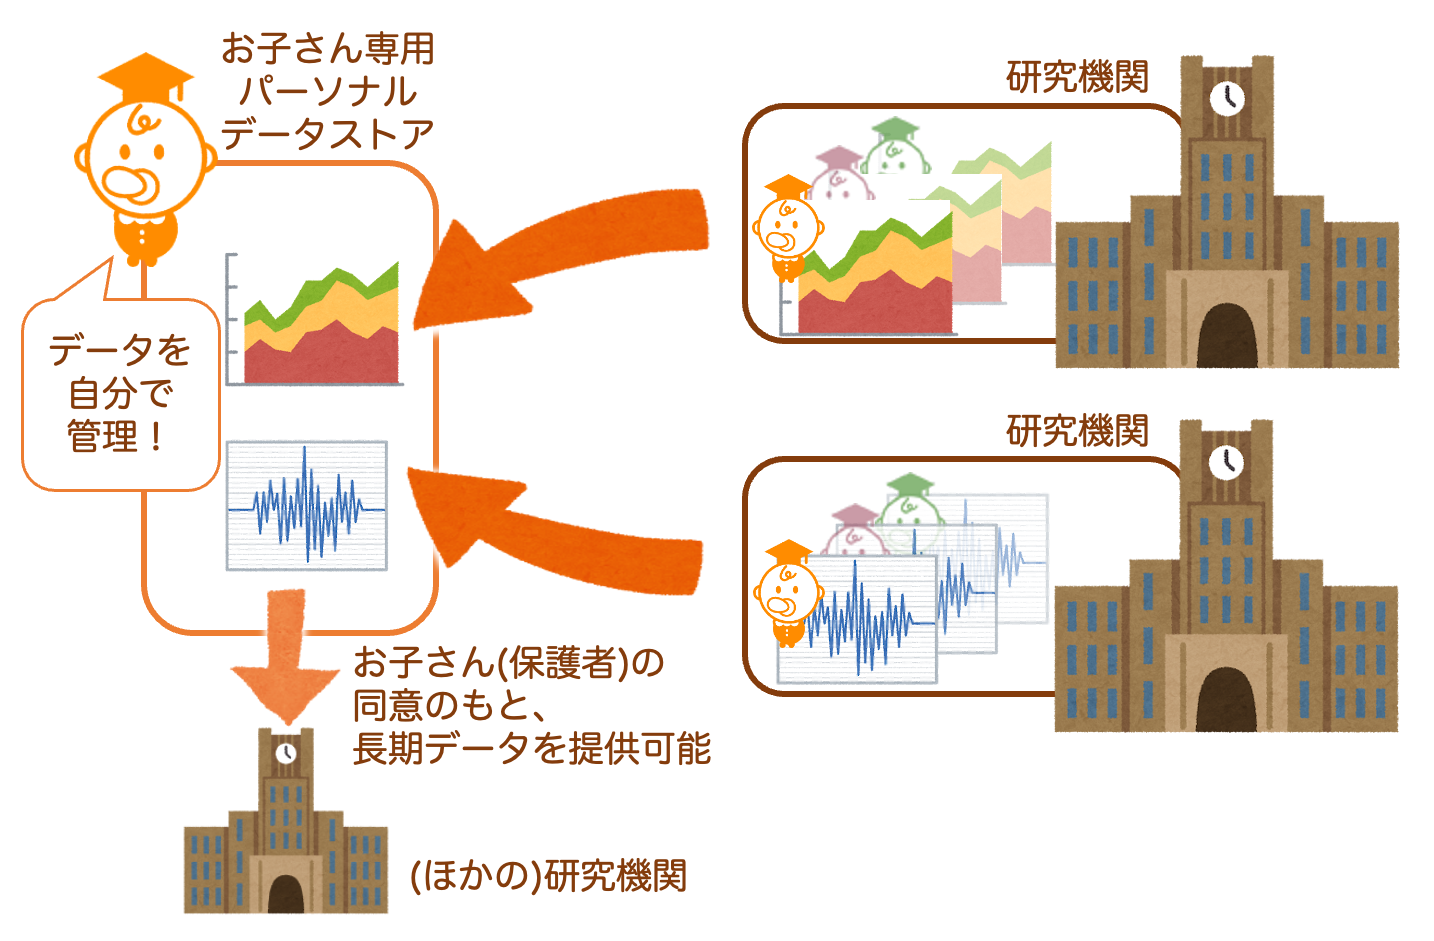
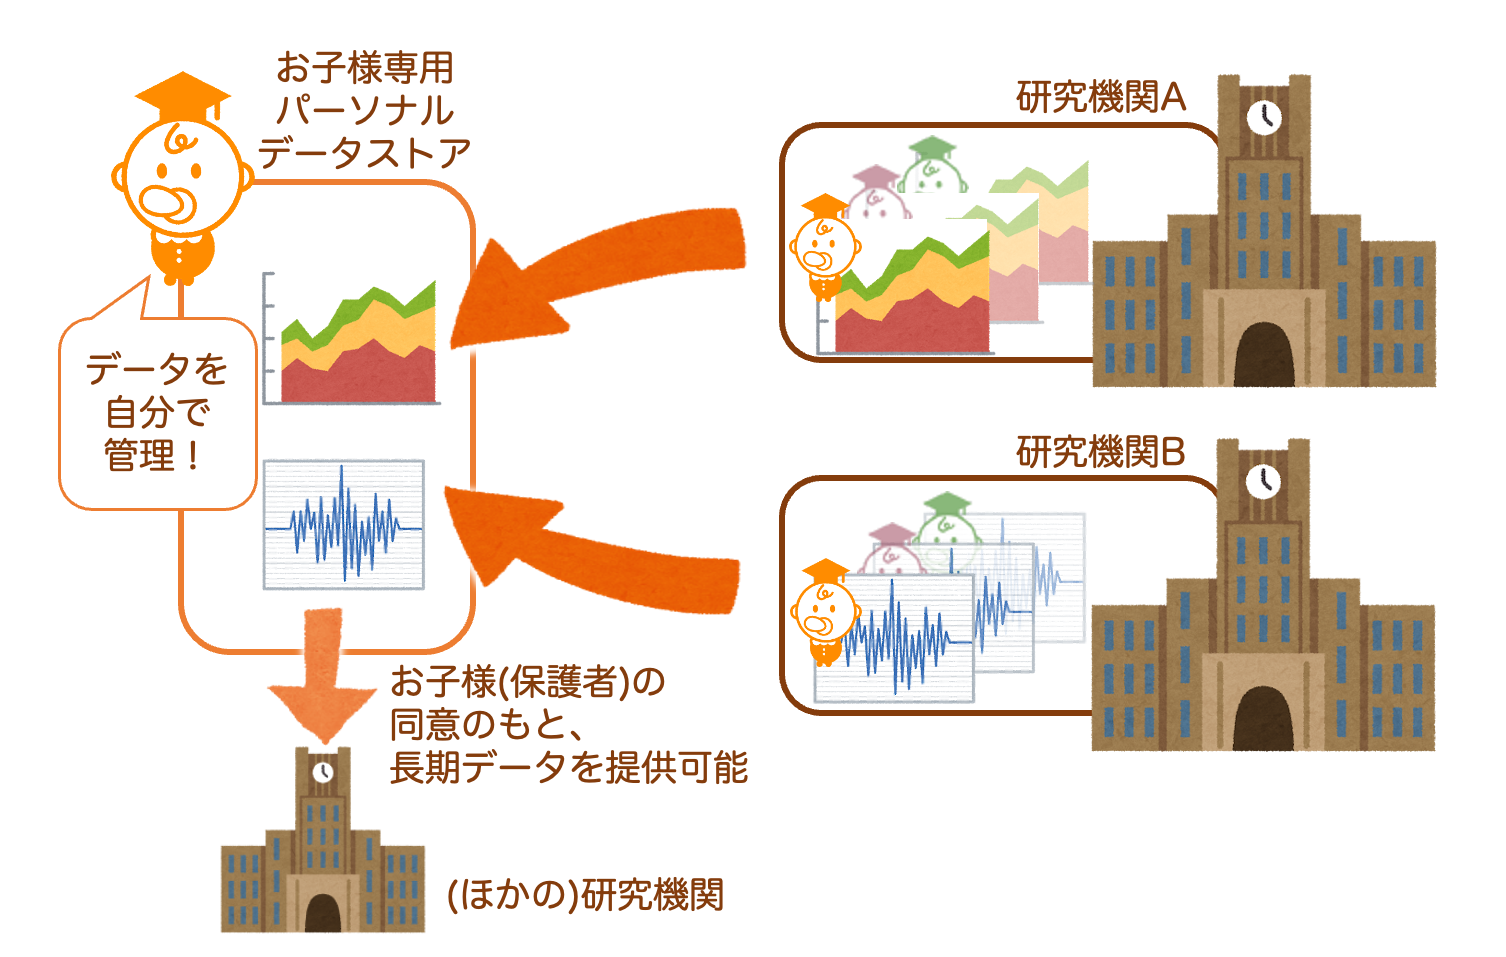
Fix descriptions

Changed region(s): [[0.0307, 0.0308, 0.9819, 0.9862], [0.3989, 0.6164, 0.4909, 0.6472]]

diff --git a/join-person.md b/join-person.md
@@ -32,7 +32,7 @@ items:
 
 ## 1）データの取り扱い方法
 
-これまでの調査では、お子様がある研究機関の実験に参加したときに、得られたデータは各研究機関で厳重に管理され、研究機関同士で互いに共有されることはありませんでした。「参加者の同意なしに実験データを二次利用しない」ことは非常に重要なことではありますが、「参加者が同意した上で、自身の実験データの二次利用を許可する」ためのよい方法がないのが現状でした。
+これまでの調査では、お子様がある研究機関の実験に参加したときに、得られたデータは各研究機関で厳重に管理され、研究機関同士で互いに共有されることはありませんでした。「参加者の同意なしに実験データを二次利用しない」ことは非常に重要なことではありますが、「参加者の同意を得たうえで、自身の実験データの二次利用を許可する」ためのよい方法がないのが現状でした。
 
 そこで赤ちゃんラボ5.0では、「パーソナルデータストア」という技術を使い、お子様がある研究機関の調査に参加されたときの実験データを、お子様(または保護者様)の同意のもとに、別の研究機関で二次利用できるようにする枠組みを構築しようと考えております。
 
